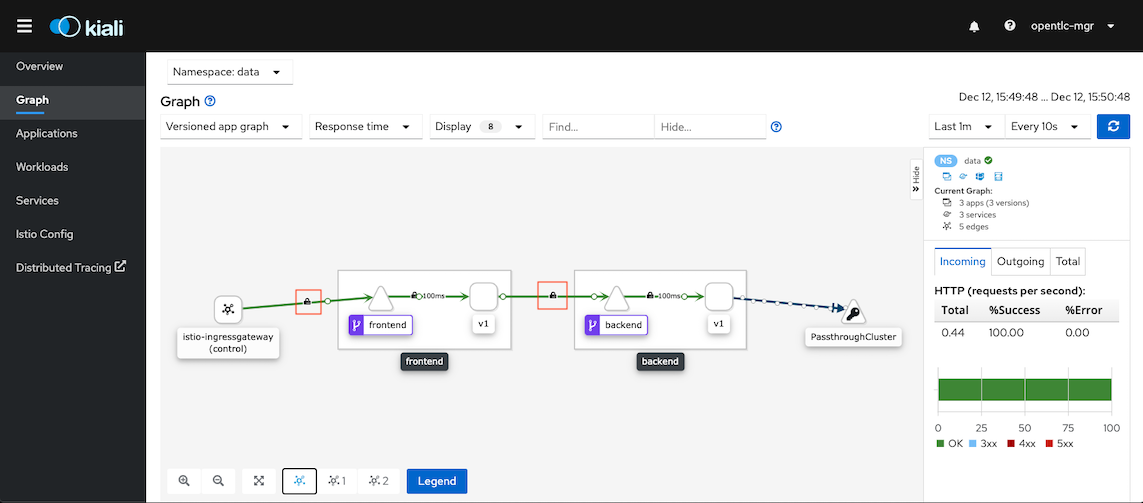
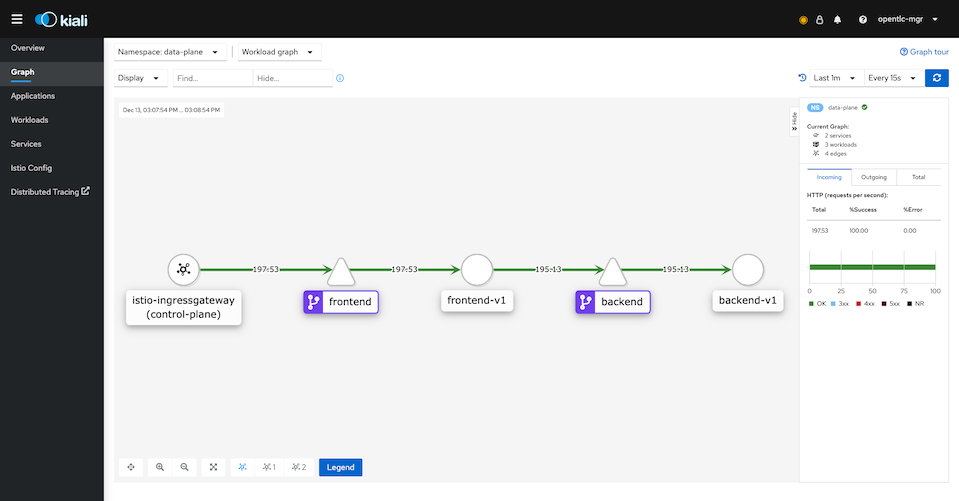
load test with JMeter

diff --git a/README.md b/README.md
@@ -23,4 +23,35 @@ cd ossm2
 ./setup.sh
 ```
 
+## Load Test with JMeter
+
+JMeter JMX with preconfigred truststore and keystore JKS already prepared.
+
+Remark: Edit [run-test.sh](load-test/run-test.sh) to specified based installation path of JMeter to environment variable JMETER_BASE_PATH
+
+```
+cd load-test
+./run-test.sh <hostname - without https> <threads> <loops>
+# Example
+# ./run-test.sh frontend-data-plane.apps.example.com 200 500
+```
+
+Sample reports generated from testresult.jtl
+
+  - Aggregate report
+  
+    ![](images/jmeter-aggregate-report.png)
+
+  - Summary report
+
+    ![](images/jmeter-summary-report.png)
+
+Graph in Kiali Console
+
 ![](images/sample-kiali.png)
+
+You can check Grafana in Control Plane project workloads
+
+![](images/sample-grafana.png)
+
+
